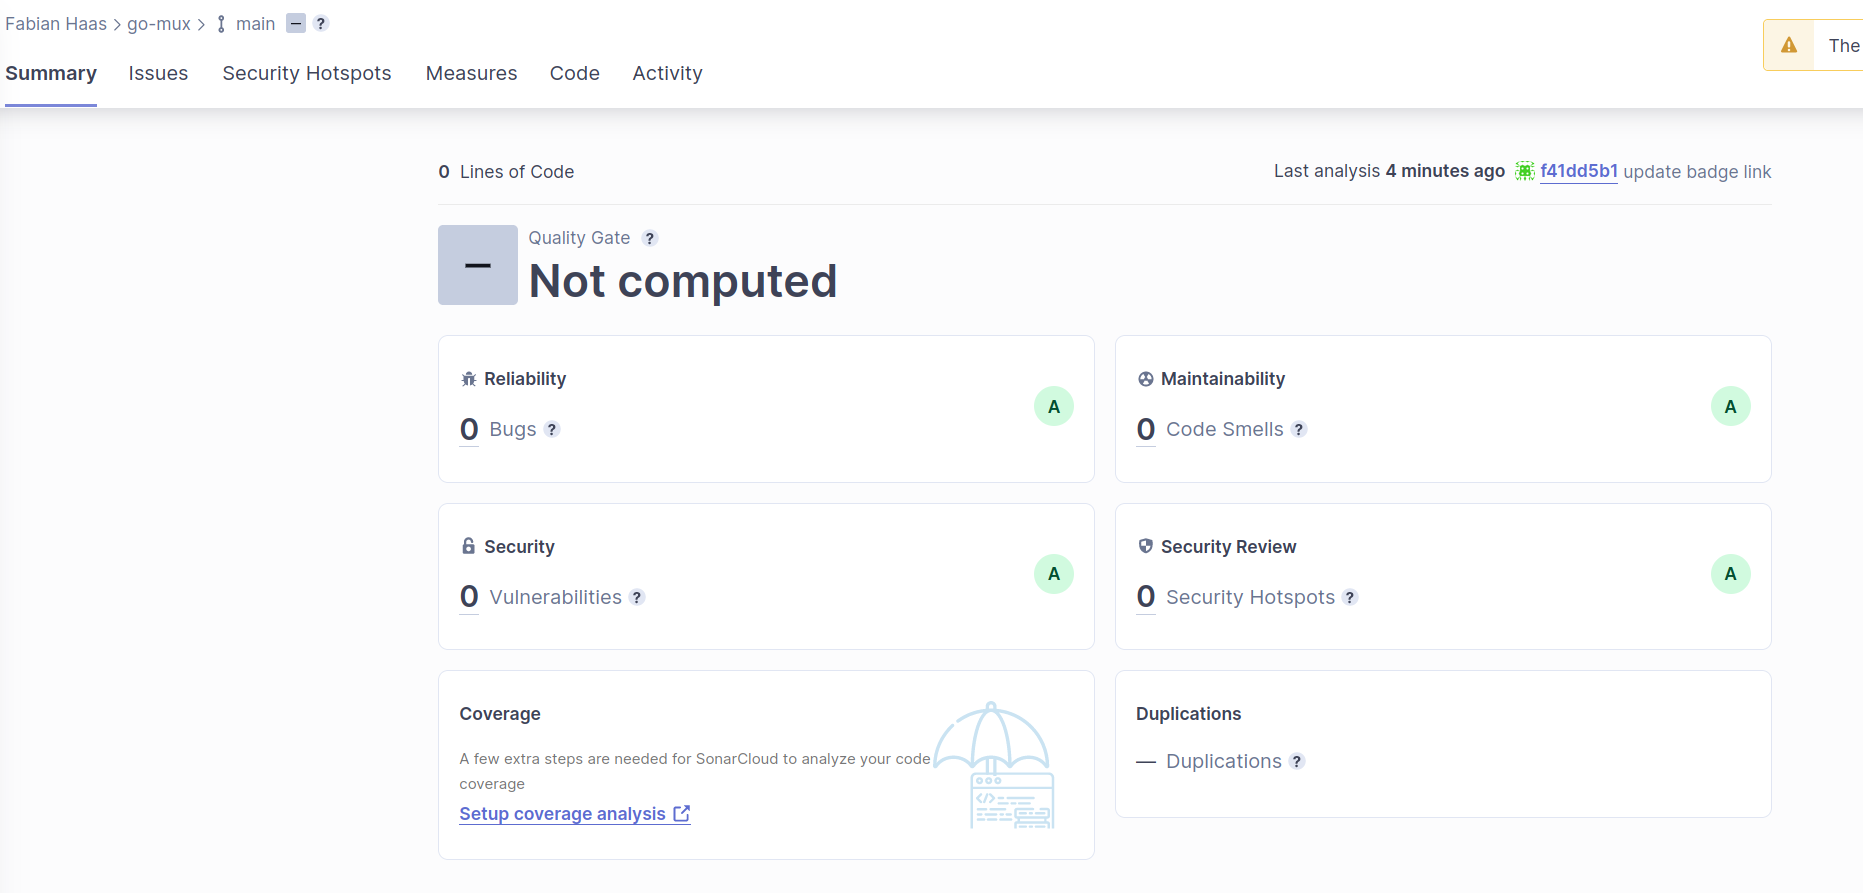
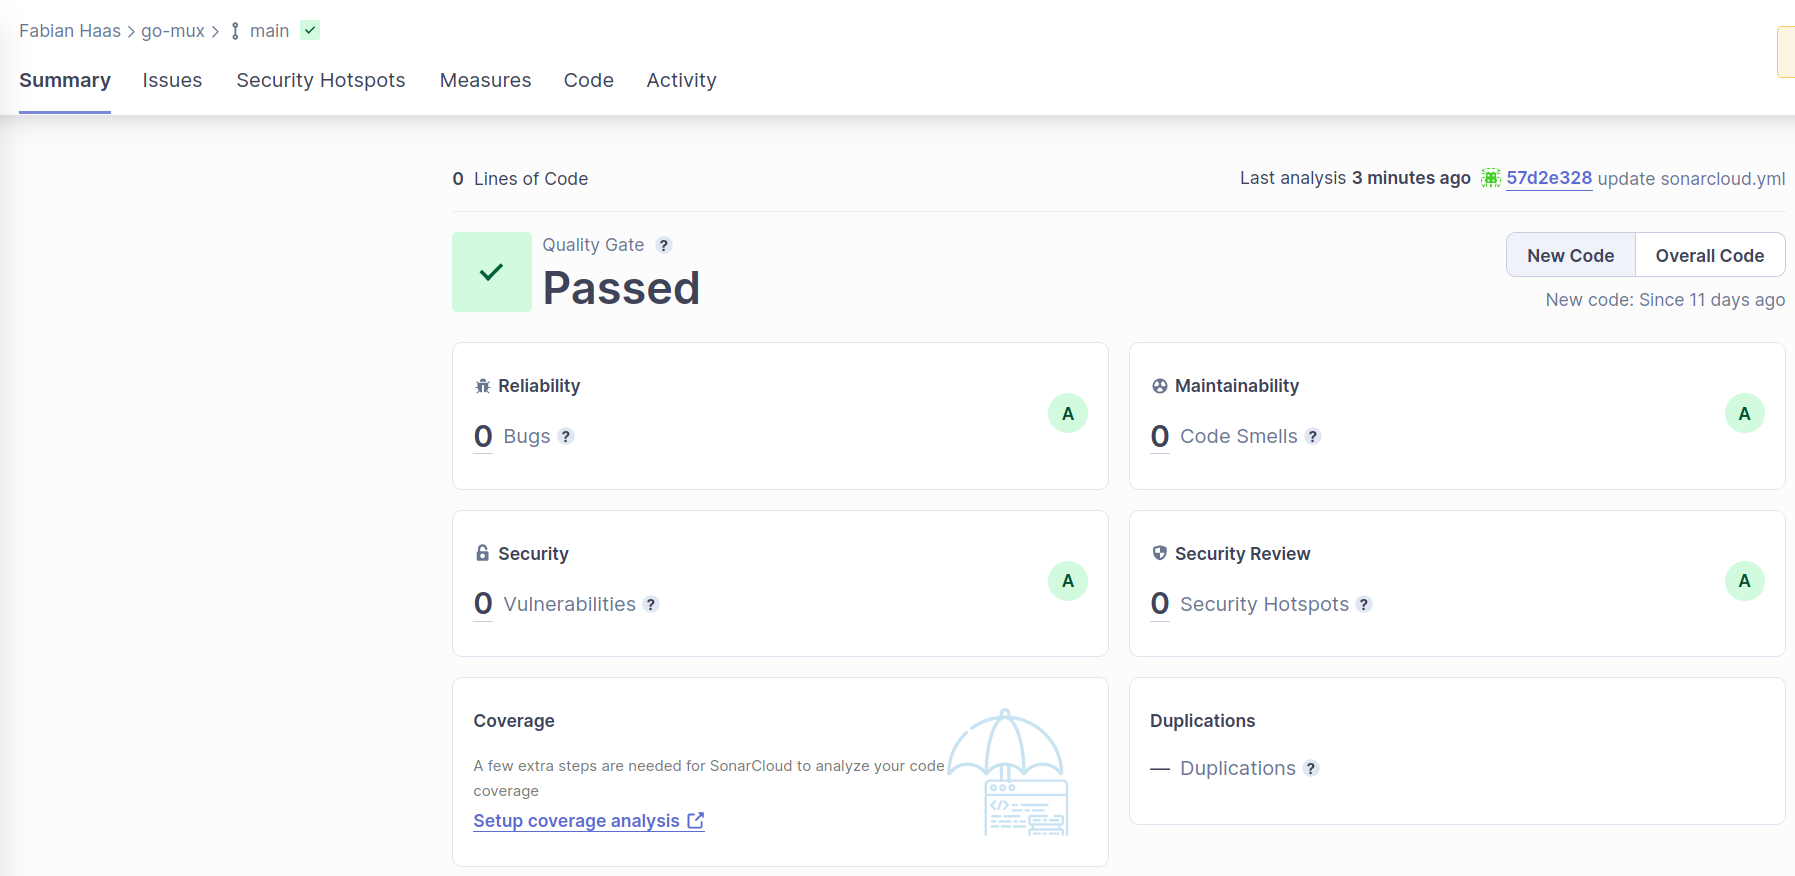
update documentation

diff --git a/README.md b/README.md
@@ -1,3 +1,9 @@
+[![Go](https://github.com/blazing-panda/go-mux/actions/workflows/go.yml/badge.svg)](https://github.com/blazing-panda/go-mux/actions/workflows/go.yml)
+
+[![SonarCloud analysis](https://github.com/blazing-panda/go-mux/actions/workflows/sonarcloud.yml/badge.svg)](https://github.com/blazing-panda/go-mux/actions/workflows/sonarcloud.yml)
+
+[![Quality Gate Status](https://sonarcloud.io/api/project_badges/measure?project=blazing-panda_go-mux&metric=alert_status)](https://sonarcloud.io/summary/new_code?id=blazing-panda_go-mux)
+
 # Go-mux
 
 ## Exercise 3: CI workflow
@@ -155,7 +161,6 @@ jobs:
 ![](doc/images/sonarcloud.png)
 
 [![Quality Gate Status](https://sonarcloud.io/api/project_badges/measure?project=blazing-panda_go-mux&metric=alert_status)](https://sonarcloud.io/summary/new_code?id=blazing-panda_go-mux)
-
 
 ## Setup
 
